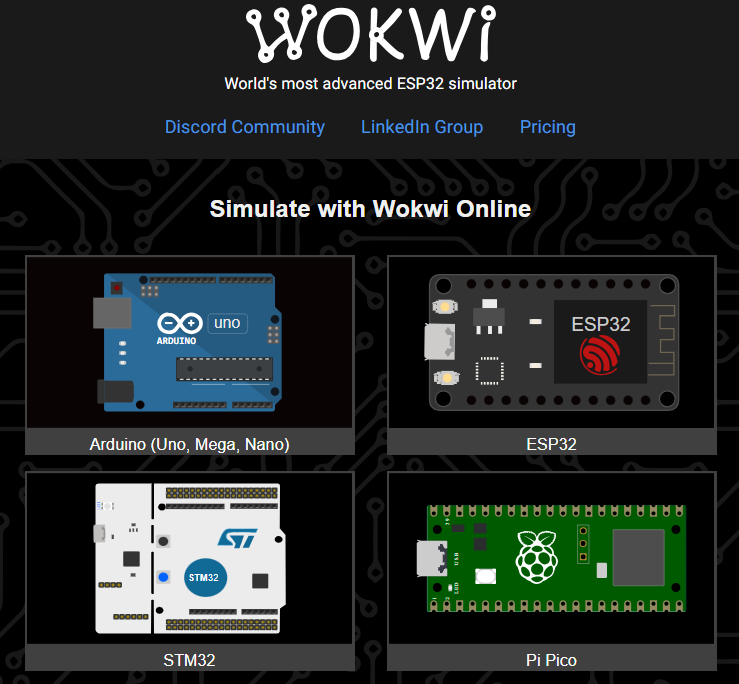
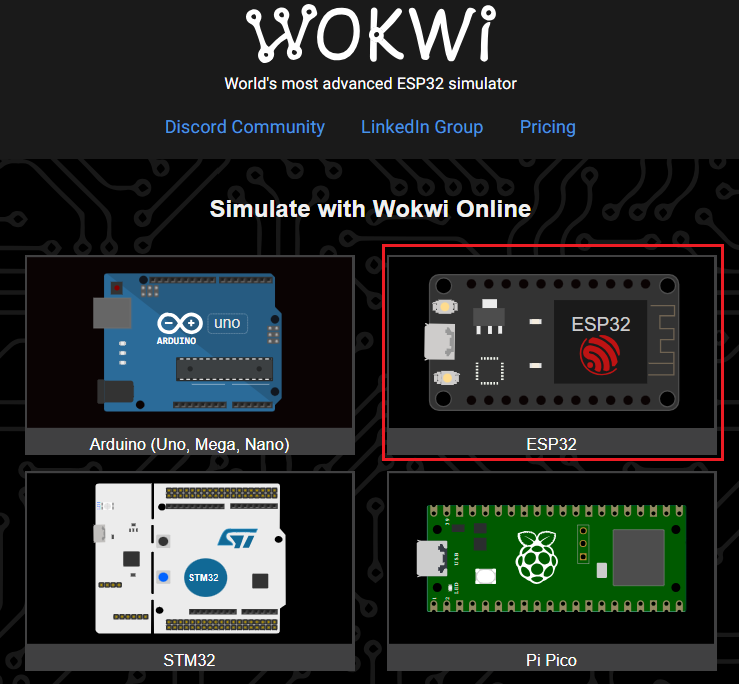
vistos

Changed region(s): [[0.498, 0.3684, 0.9959, 0.6754], [0.5291, 0.3377, 0.9648, 0.3684]]

diff --git a/ds/turmas/2DES_B/4º Semestre/01-iot/aula06/README.md b/ds/turmas/2DES_B/4º Semestre/01-iot/aula06/README.md
@@ -3,8 +3,12 @@
 ## Objetivos
 Realizar experimentos com componentes reais (ESP32) a partir de experimentos feitos com simulador **[TinkerCAD](https://www.tinkercad.com/)**
 
-## Simulador com ESP32 [WOKWI](https://wokwi.com/)
+<details><summary><h2>Simulador com ESP32 [WOKWI](https://wokwi.com/)</h2></summary>
+
 ![SiteWokwi](./wokwi.png)
+![SiteWokwi](./wokwi02.png)
+
+</details>
 
 ### Capacidades Técnicas
 - 1 Identificar as diferenças entre as aplicações do **[IoT e IIoT](./iot_vs_iiot.md)** 
@@ -69,6 +73,7 @@ void loop(){
 }
 ```
 ## Instalando a IDE
+- Tutorial do aluno [Enzo do terceiro B](https://github.com/zenvexy/Arduino-IDE.git)
 - Baixar a [Arduino PLC IDE 1.1.0](https://www.arduino.cc/en/software/)
     - Download for Windows
         - Istalar no computador
